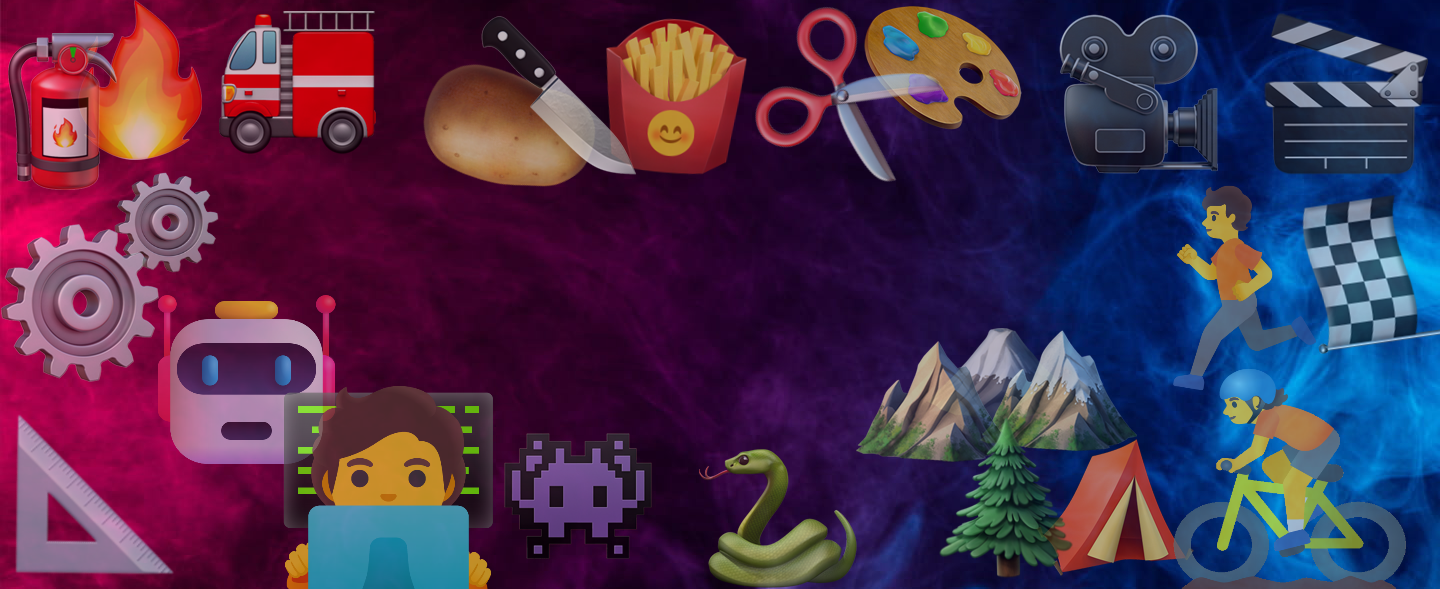
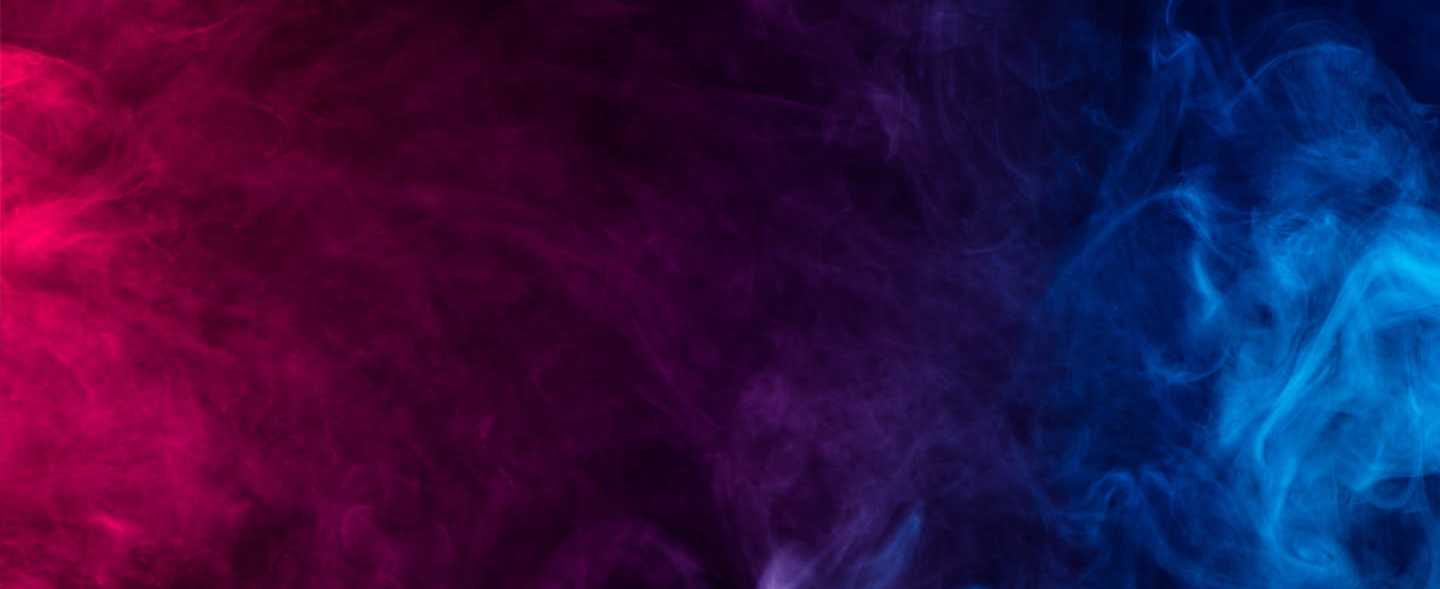
animation snake

diff --git a/js/snake.js b/js/snake.js
@@ -11,8 +11,8 @@ const TOUCHE ={
 };
 
 var startX, startY, distX, distY;
-const threshold = 150;
-const restraint = 100;
+const threshold = 50;
+const restraint = 30;
 
 var TAILLE = {'x':100, 'y':100}; // taille d'une case
 var MARGE = {'x':10, 'y':10};
@@ -34,6 +34,7 @@ let directionQueue;
 let gameOver = true;
 let pause;
 let snakeAFaim;
+let programmeStart = false;
 
 
 
@@ -42,53 +43,59 @@ let snakeAFaim;
 //////////////////////////////////////////////////////////////////////////////////////////////////////////////////////////////////
 
 document.addEventListener('keydown', function(event) {
-    window.scrollTo(0, 0);
-    event.preventDefault();
-    if (gameOver === true){
-        initialisation();
-        boucle();
-    }
-    var codeTouche = event.keyCode || event.which;
-    if (pause === false){
-        if (TOUCHE[codeTouche] === "GAUCHE" || TOUCHE[codeTouche] === "DROITE" || TOUCHE[codeTouche] === "HAUT" || TOUCHE[codeTouche] === "BAS"){
-            goToDirection(TOUCHE[codeTouche]);
+    if (programmeStart){
+        window.scrollTo(0, 0);
+        event.preventDefault();
+        if (gameOver === true){
+            initialisation();
+            boucle();
         }
-    }
-    if (TOUCHE[codeTouche] === "ESPACE"){
-        pause = !pause;
+        var codeTouche = event.keyCode || event.which;
+        if (pause === false){
+            if (TOUCHE[codeTouche] === "GAUCHE" || TOUCHE[codeTouche] === "DROITE" || TOUCHE[codeTouche] === "HAUT" || TOUCHE[codeTouche] === "BAS"){
+                goToDirection(TOUCHE[codeTouche]);
+            }
+        }
+        if (TOUCHE[codeTouche] === "ESPACE"){
+            pause = !pause;
+        }
     }
 });
 
 document.addEventListener('touchstart', function(event) {
-    var touch = event.changedTouches[0];
-    startX = touch.pageX;
-    startY = touch.pageY;
-    if (gameOver === true){
-        initialisation();
-        boucle();
+    if (programmeStart){
+        var touch = event.changedTouches[0];
+        startX = touch.pageX;
+        startY = touch.pageY;
+        if (gameOver === true){
+            initialisation();
+            boucle();
+        }
     }
 });
 
 document.addEventListener('touchmove', function(event) {
-    event. preventDefault();
-    var touch = event.changedTouches[0];
-    distX = touch.pageX - startX;
-    distY = touch.pageY - startY;
-    if (distX > threshold){
-        goToDirection("DROITE");
-        setStart(touch.pageX, touch.pageY);
-    }
-    if (-distX > threshold){
-        goToDirection("GAUCHE");
-        setStart(touch.pageX, touch.pageY);
-    }
-    if (distY > threshold){
-        goToDirection("BAS");
-        setStart(touch.pageX, touch.pageY);
-    }
-    if (-distY > threshold){
-        goToDirection("HAUT");
-        setStart(touch.pageX, touch.pageY);
+    if (programmeStart){
+        event. preventDefault();
+        var touch = event.changedTouches[0];
+        distX = touch.pageX - startX;
+        distY = touch.pageY - startY;
+        if (distX > threshold){
+            goToDirection("DROITE");
+            setStart(touch.pageX, touch.pageY);
+        }
+        if (-distX > threshold){
+            goToDirection("GAUCHE");
+            setStart(touch.pageX, touch.pageY);
+        }
+        if (distY > threshold){
+            goToDirection("BAS");
+            setStart(touch.pageX, touch.pageY);
+        }
+        if (-distY > threshold){
+            goToDirection("HAUT");
+            setStart(touch.pageX, touch.pageY);
+        }
     }
 }, { passive: false });
 
@@ -99,8 +106,10 @@ function setStart(abs, ord){
 
 function goToDirection(direction){
     if (derniereDirection !== direction && derniereDirection !== getDirectionOposee(direction)){
-        listeDirection.push(direction);
-        derniereDirection = direction;
+        if (listeDirection.length < 2){
+            listeDirection.push(direction);
+            derniereDirection = direction;
+        }
     }
 }
 
@@ -527,8 +536,29 @@ function initialisation(){
 }
 
 function start(){
+    programmeStart = true;
+    effacerTout();
     initialisation();
     boucle();
+}
+
+function effacerTout(){
+    var emojis = document.querySelectorAll('.emoji');
+    var bienvenue = document.querySelectorAll('.bienvenue');
+    effacerUn(emojis,0);
+    effacerUn(bienvenue,0);
+}
+
+function effacerUn(emojis, index){
+    if (index < emojis.length) {
+    emojis[index].classList.add('effacer');
+    setTimeout(() => {
+      effacerUn(emojis, index + 1);
+    }, 50);
+    setTimeout(() => {
+      emojis[index].style.display = 'none';
+    }, 300);
+  }
 }
 
 //////////////////////////////////////////////////////////////////////////////////////////////////////////////////////////////////
@@ -547,6 +577,6 @@ function boucle(){
         }
     }
     if (gameOver === false){
-        setTimeout(boucle, 10);
+        setTimeout(boucle, 5);
     }
 }

diff --git a/html/index.html b/html/index.html
@@ -45,8 +45,32 @@
 
 	<main>
 		<div class="baniere">
-			<img id="plateau" class="baniere" src="../src/banniere2.png">
+			<img id="plateau" class="baniere" src="../src/banniere.png">
+			<img id="plateau" class="bienvenue" src="../src/bienvenue.png">
 			<img onclick="start()" class="emoji emoji_serpent" src="../src/emoji_serpent.png">
+			<img class="emoji emoji_montagne3" src="../src/emoji_montagne3.png">
+			<img class="emoji emoji_montagne2" src="../src/emoji_montagne2.png">
+			<img class="emoji emoji_montagne1" src="../src/emoji_montagne1.png">
+			<img class="emoji emoji_tente" src="../src/emoji_tente.png">
+			<img class="emoji emoji_sapin" src="../src/emoji_sapin.png">
+			<img class="emoji emoji_velo" src="../src/emoji_velo.png">
+			<img class="emoji emoji_depart" src="../src/emoji_depart.png">
+			<img class="emoji emoji_course" src="../src/emoji_course.png">
+			<img class="emoji emoji_clap" src="../src/emoji_clap.png">
+			<img class="emoji emoji_camera" src="../src/emoji_camera.png">
+			<img class="emoji emoji_palette" src="../src/emoji_palette.png">
+			<img class="emoji emoji_ciseaux" src="../src/emoji_ciseaux.png">
+			<img class="emoji emoji_patate" src="../src/emoji_patate.png">
+			<img class="emoji emoji_frites" src="../src/emoji_frites.png">
+			<img class="emoji emoji_couteau" src="../src/emoji_couteau.png">
+			<img class="emoji emoji_fpt" src="../src/emoji_fpt.png">
+			<img class="emoji emoji_feu" src="../src/emoji_feu.png">
+			<img class="emoji emoji_extincteur" src="../src/emoji_extincteur.png">
+			<img class="emoji emoji_abacus" src="../src/emoji_abacus.png">
+			<img class="emoji emoji_equerre" src="../src/emoji_equerre.png">
+			<img class="emoji emoji_robot" src="../src/emoji_robot.png">
+			<img class="emoji emoji_alien" src="../src/emoji_alien.png">
+			<img class="emoji emoji_developpeur" src="../src/emoji_developpeur.png">
 			<div id="snake_game">
 				<div id="serpent">
 					<div id="os"></div>

diff --git a/css/index.css b/css/index.css
@@ -3,12 +3,21 @@
 	position: relative;
 }
 
+.bienvenue{
+	width: 100%;
+	position: absolute;
+	left: 0%;
+	top: 0%;
+}
+
 .emoji{
+	opacity: 0.8;
+	width: 11%;
 	position: absolute;
 }
 
 .emoji_serpent{
-	opacity: 0;
+	opacity: 0.5;
 	width: 11%;
 	left: 48.5%;
 	top: 72%;
@@ -19,12 +28,136 @@
 	cursor: pointer;
 }
 
+.effacer{
+	opacity: 0!important;
+	transition: opacity 0.3s ease-in-out, display 0.3s!important;
+}
+
 #snake_game{
 	z-index: 10;
 	position: absolute;
 	left: 0px;
 	top: 0px;
-	background-color: red;
-	border: 5px solid black;
-	height: 400px;
+}
+
+.emoji_montagne1{
+	right: 30%;
+	bottom: 20%;
+}
+
+.emoji_montagne2{
+	right: 21%;
+	bottom: 23%;
+}
+
+.emoji_montagne3{
+	right: 25%;
+	bottom: 28%;
+}
+
+.emoji_tente{
+	right: 17%;
+	bottom: 2%;
+}
+
+.emoji_sapin{
+	right: 25%;
+	bottom: 2%;
+}
+
+.emoji_velo{
+	width: 15%;
+	right: 2%;
+	bottom: 0%;
+}
+
+.emoji_depart{
+	right: 0%;
+	bottom: 40%;
+}
+
+.emoji_course{
+	width: 15%;
+	right: 7%;
+	bottom: 32%;
+}
+
+.emoji_clap{
+	right: 1%;
+	top: 2%;
+}
+
+.emoji_camera{
+	right: 15%;
+	top: 2%;
+}
+
+.emoji_palette{
+	right: 28%;
+	top: 0%;
+}
+
+.emoji_ciseaux{
+	right: 36%;
+	top: 4%;
+	transform: rotate(-60deg);
+}
+
+.emoji_frites{
+	left: 40%;
+	top: 3%;
+}
+
+.emoji_couteau{
+	width: 13%;
+	left: 33%;
+	top: 2%;
+}
+
+.emoji_patate{
+	left: 29%;
+	top: 8%;
+	transform: rotate(140deg);
+}
+
+.emoji_fpt{
+	left: 15%;
+	top: 0%;
+}
+
+.emoji_feu{
+	left: 5%;
+	top: 0%;
+}
+
+.emoji_extincteur{
+	left: 0%;
+	top: 5%;
+}
+
+.emoji_abacus{
+	left: 1%;
+	bottom: 40%;
+}
+
+.emoji_equerre{
+	left: 1%;
+	bottom: 2%;
+}
+
+.emoji_robot{
+	width: 14%;
+	left: 10%;
+	bottom: 18%;
+}
+
+.emoji_alien{
+	left: 35%;
+	bottom: 2%;
+}
+
+.emoji_developpeur{
+	width: 15%;
+	left: 19%;
+	bottom: 0%;
 }

diff --git a/css/menu.css b/css/menu.css
@@ -1,4 +1,5 @@
 #menu {
+	/*z-index: 100;*/
 	position: absolute;
 	left: 0;
 	top: 0;
@@ -87,6 +88,7 @@
 }
 
 .apparition{
+	z-index: 100;
 	opacity: 1;
 	transition: opacity 0.3s ease-in-out
 }
